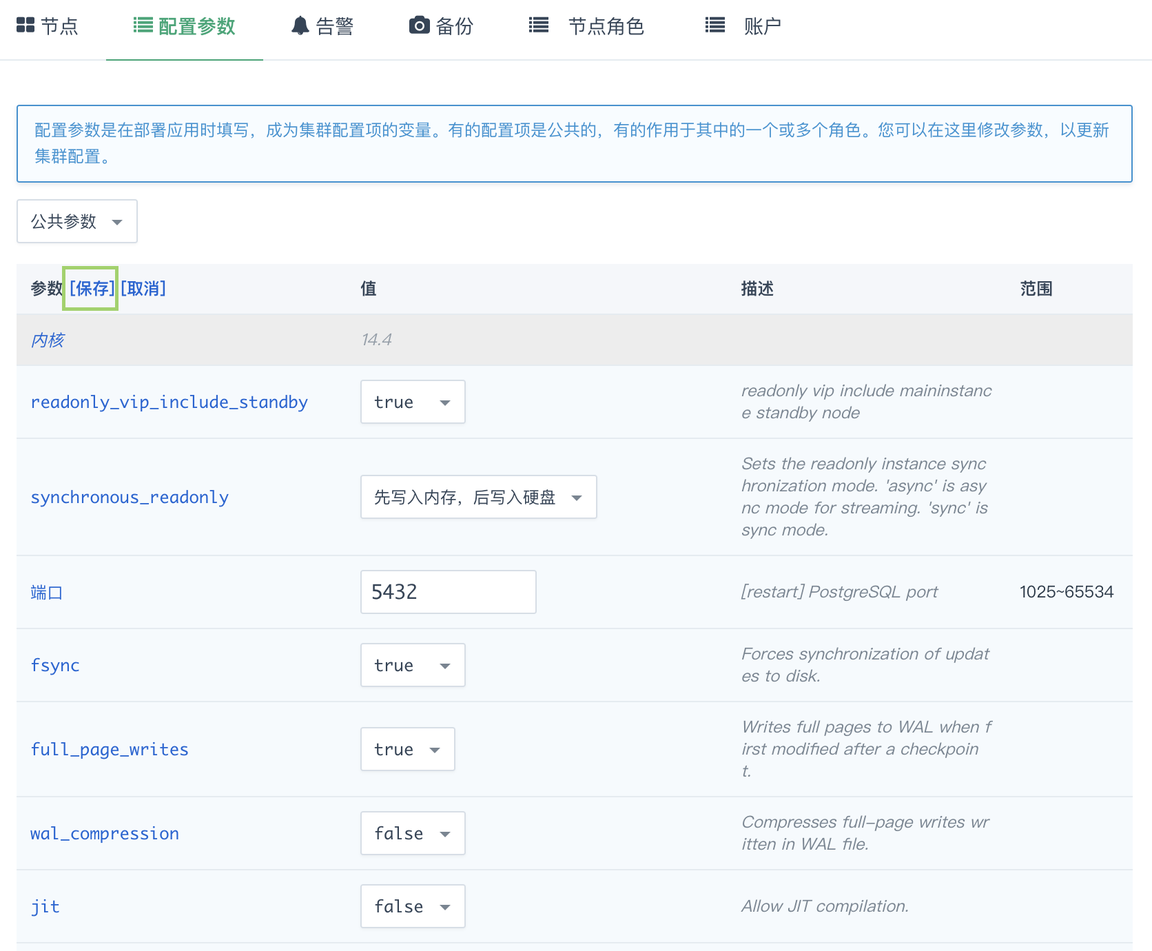
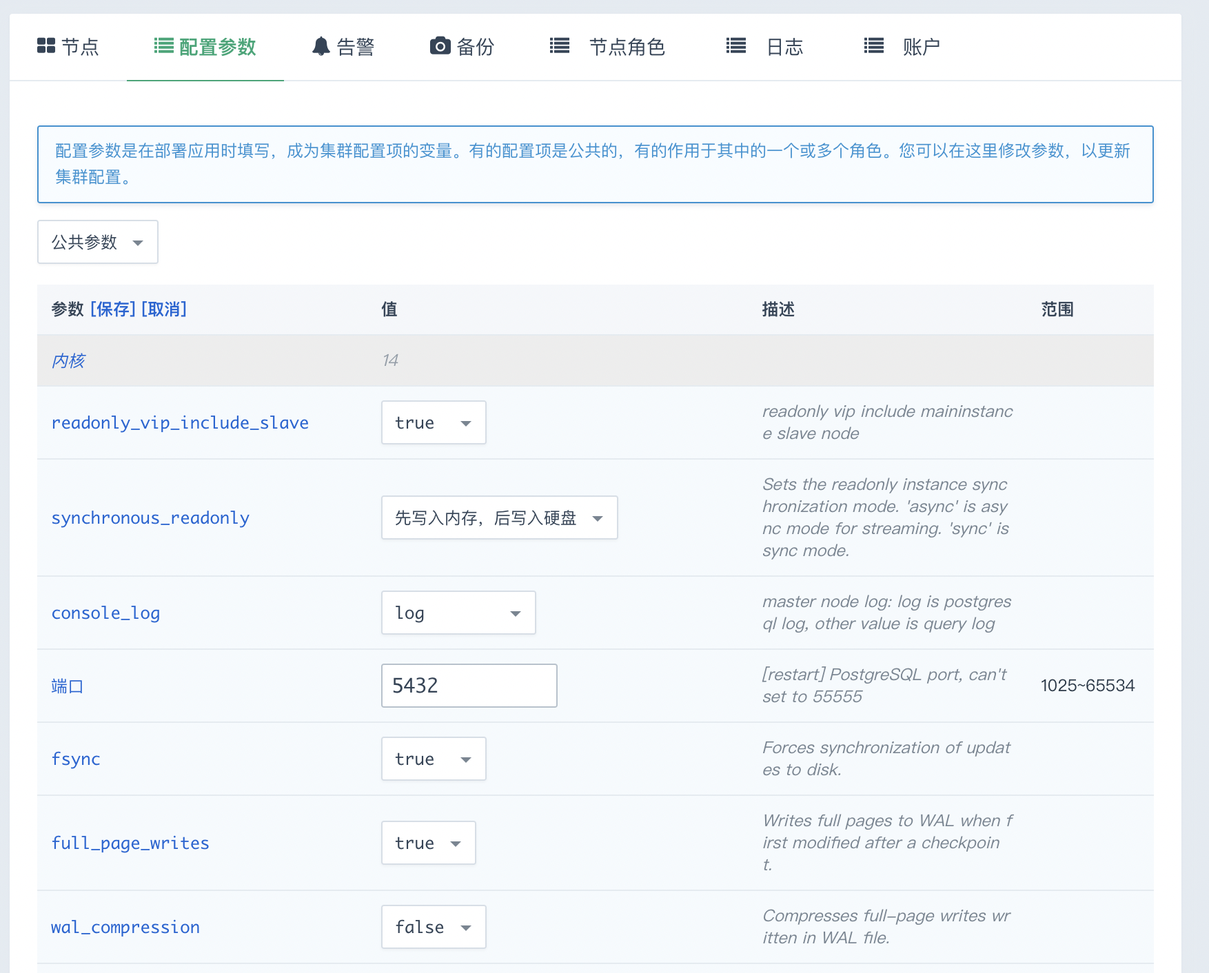
修改PG 评审意见

diff --git a/content/database/postgresql/manual_new/config_para/config_pare_info_new.md b/content/database/postgresql/manual_new/config_para/config_pare_info_new.md
@@ -20,20 +20,20 @@ draft: false
 | readonly_vip_include_slave                                | 默认为true。<ul><li>true</li><li>false</li></ul>             | 只读主实例，默认值 **true**。                                |
 | synchronous_readonly                                      | <ul><li>先写入内存，后写入硬盘</li><li>同步写入内存和硬盘</li></ul> | 表示设置只读实例同步模式。 'async' 是流式传输的异步模式。 'sync' 是同步模式。 |
 | console_log                                               | <ul><li>log</li><li>calls</li><li>mean_time</li><li>total_time</li><li>max_time</li></ul> | 主实例日志。                                                 |
-| 端口                                                      | 1025 ~ 65534                                                 | 表示PostgreSQL 端口号，默认值为 **5432**。<span style="display: block; background-color: #D8ECDE; padding: 10px 24px; margin: 10px 0; border-left: 3px solid #00a971;"><b>说明</b>: <br>该参数修改后，将重启 pgpool。</span> |
+| 端口                                                      | 1025 ~ 65534                                                 | 表示PostgreSQL 端口号，默认值为 **5432**。<span style="display: block; background-color: #D8ECDE; padding: 10px 24px; margin: 10px 0; border-left: 3px solid #00a971;"><b>说明</b>: <br>该参数修改后，将重启 postgresql 服务，请在业务低峰期进行操作。</span> |
 | fsync                                                     | <ul><li>true</li><li>false</li></ul>                         | 表示强制将更新同步到磁盘，默认值为 **true**。                |
 | full_page_writes                                          | <ul><li>true</li>                                            | 表示在检查点后第一次修改时将整页写入 WAL，默认值为 **true**。 |
 | wal_compression                                           | <ul><li>true</li><li>false</li></ul>                         | 表示压缩写入 WAL 文件的整页写入，默认值为 **false**。        |
 | jit                                                       | <ul><li>true</li><li>false</li></ul>                         | 表示允许 JIT 编译，默认值为 **false**。                      |
 | autovacuum                                                | <ul><li>true</li><li>false</li></ul>                         | 表示启动 autovacuum 子进程，默认值为 **true**。              |
 | synchronous_commit                                        | <ul><li>关闭</li><li>local</li><li>on</li><li>remote_write</li><li>remote_apply</li></ul> | 表示设置当前事务的同步级别。 'local' 表示流式传输的异步模式。 'on' 表示同步模式，默认值为 **on**。 |
-| wal_level                                                 | <ul><li>Replica</li><li>logical</li></ul>                    | 表示设置写入 WALL 的信息级别。<span style="display: block; background-color: #D8ECDE; padding: 10px 24px; margin: 10px 0; border-left: 3px solid #00a971;"><b>说明</b>: <br/>该参数修改后，将重启 pgpool。</span> |
-| temp_buffers                                              | 1 ~ 32768                                                    | 单位：MB<br>表示设置每个会话使用的最大临时缓冲区数，默认值为 **2**。<span style="display: block; background-color: #D8ECDE; padding: 10px 24px; margin: 10px 0; border-left: 3px solid #00a971;"><b>说明</b>: <br/>该参数修改后，可能将重启 pgpool。</span> |
-| work_mem                                                  | 0 ~ 1024                                                     | 单位：MB<br>表示表示在写到临时磁盘文件之前被内部排序操作和哈希表使用的内存大小，根据内存大小自动设置值，默认值为内存的 0.0005。<span style="display: block; background-color: #D8ECDE; padding: 10px 24px; margin: 10px 0; border-left: 3px solid #00a971;"><b>说明</b>: <br/>该参数修改后，可能将重启 pgpool。</span> |
-| maintenance_work_mem                                      | 0 ~ 1024                                                     | 单位：MB<br>表示表示在维护性操作（例如 VACUUM、CREATE INDEX 和 ALTER TABLE ADD FOREIGN KEY）中使用的最大的内存大小，根据内存大小自动设置值，默认为内存的 0.0625。<span style="display: block; background-color: #D8ECDE; padding: 10px 24px; margin: 10px 0; border-left: 3px solid #00a971;"><b>说明</b>: <br/>该参数修改后，可能将重启 pgpool。</span> |
-| shared_buffers                                            | 0 ~ 64                                                       | 单位：GB<br>表示设置服务器使用的共享内存缓冲区的数量，根据内存大小自动设置值，默认为内存的 0.25。 <span style="display: block; background-color: #D8ECDE; padding: 10px 24px; margin: 10px 0; border-left: 3px solid #00a971;"><b>说明</b>: <br/>该参数修改后，将重启 pgpool。</span> |
-| max_connections                                           | 0 ~ 262143                                                   | 表示设置每个 PostgreSQL 节点的最大并发连接数，max_connections = 机器剩余内存 /  (work_mem * 0.2 + temp_buffers + 2M 的栈内存)。<ul><li>假定只有1/5的连接会将work_mem全部用满</li><li>进程的堆的空间最多为10M，但是通常情况下都是小于2M</li><li>剩余内存 = 机器内存 - shared_buffers - maintenance_work_mem</li><li>当连接数max_connections不够用的时候，建议减小work_mem的设置。</li><li>当不需要很多连接的时候，手动减小max_connections 会自动增加work_mem的设置（work_mem设置为0自动优化时）</li><li>不建议手动设置其他参数。</li></ul><span style="display: block; background-color: #D8ECDE; padding: 10px 24px; margin: 10px 0; border-left: 3px solid #00a971;"><b>说明</b>: <br/>该参数修改后，将重启 pgpool。</span> |
-| max_worker_processes                                      | 0 ~ 65536                                                    | 表示最大并发工作进程数，根据CPU数量自动设置值，默认为 CPU 的数量 * 2。<span style="display: block; background-color: #D8ECDE; padding: 10px 24px; margin: 10px 0; border-left: 3px solid #00a971;"><b>说明</b>: <br/>该参数修改后，将重启 pgpool。</span> |
+| wal_level                                                 | <ul><li>Replica</li><li>logical</li></ul>                    | 表示设置写入 WALL 的信息级别。<span style="display: block; background-color: #D8ECDE; padding: 10px 24px; margin: 10px 0; border-left: 3px solid #00a971;"><b>说明</b>: <br/>该参数修改后，将重启 postgresql 服务，请在业务低峰期进行操作。</span> |
+| temp_buffers                                              | 1 ~ 32768                                                    | 单位：MB<br>表示设置每个会话使用的最大临时缓冲区数，默认值为 **2**。<span style="display: block; background-color: #D8ECDE; padding: 10px 24px; margin: 10px 0; border-left: 3px solid #00a971;"><b>说明</b>: <br/>该参数修改后，可能将重启 postgresql 服务，请在业务低峰期进行操作。</span> |
+| work_mem                                                  | 0 ~ 1024                                                     | 单位：MB<br>表示表示在写到临时磁盘文件之前被内部排序操作和哈希表使用的内存大小，根据内存大小自动设置值，默认值为内存的 0.0005。<span style="display: block; background-color: #D8ECDE; padding: 10px 24px; margin: 10px 0; border-left: 3px solid #00a971;"><b>说明</b>: <br/>该参数修改后，可能将重启 postgresql 服务，请在业务低峰期进行操作。</span> |
+| maintenance_work_mem                                      | 0 ~ 1024                                                     | 单位：MB<br>表示表示在维护性操作（例如 VACUUM、CREATE INDEX 和 ALTER TABLE ADD FOREIGN KEY）中使用的最大的内存大小，根据内存大小自动设置值，默认为内存的 0.0625。<span style="display: block; background-color: #D8ECDE; padding: 10px 24px; margin: 10px 0; border-left: 3px solid #00a971;"><b>说明</b>: <br/>该参数修改后，可能将重启 postgresql 服务，请在业务低峰期进行操作。</span> |
+| shared_buffers                                            | 0 ~ 64                                                       | 单位：GB<br>表示设置服务器使用的共享内存缓冲区的数量，根据内存大小自动设置值，默认为内存的 0.25。 <span style="display: block; background-color: #D8ECDE; padding: 10px 24px; margin: 10px 0; border-left: 3px solid #00a971;"><b>说明</b>: <br/>该参数修改后，将重启 postgresql 服务，请在业务低峰期进行操作。</span> |
+| max_connections                                           | 0 ~ 262143                                                   | 表示设置每个 PostgreSQL 节点的最大并发连接数，max_connections = 机器剩余内存 /  (work_mem * 0.2 + temp_buffers + 2M 的栈内存)。<ul><li>假定只有1/5的连接会将work_mem全部用满</li><li>进程的堆的空间最多为10M，但是通常情况下都是小于2M</li><li>剩余内存 = 机器内存 - shared_buffers - maintenance_work_mem</li><li>当连接数max_connections不够用的时候，建议减小work_mem的设置。</li><li>当不需要很多连接的时候，手动减小max_connections 会自动增加work_mem的设置（work_mem设置为0自动优化时）</li><li>不建议手动设置其他参数。</li></ul><span style="display: block; background-color: #D8ECDE; padding: 10px 24px; margin: 10px 0; border-left: 3px solid #00a971;"><b>说明</b>: <ul><li>该参数修改后，将重启 postgresql 服务，请在业务低峰期进行操作。</li><li>由于参数自动调优，可能间接造成 max_connections 参数修改，进而引起postgresql 服务重启。</li><li>参数的下方<code>restart</code> 代表修改参数会重启；<code>restart-mayby</code>代码修改参数可能会重启；<code> unit </code>代表参数的单位；<code> 0 is automatic set </code>代表该参数会根据当前的主机配置进行自动设置</li></ul></span> |
+| max_worker_processes                                      | 0 ~ 65536                                                    | 表示最大并发工作进程数，根据CPU数量自动设置值，默认为 CPU 的数量 * 2。<span style="display: block; background-color: #D8ECDE; padding: 10px 24px; margin: 10px 0; border-left: 3px solid #00a971;"><b>说明</b>: <br/>该参数修改后，将重启 postgresql 服务，请在业务低峰期进行操作。</span> |
 | wal_writer_delay                                          | 1 ~ 10000                                                    | 单位：ms<br> 表示表示WAL 写入器的活动轮次之间的延迟，默认值为 **10**。 |
 | wal_writer_flush_after                                    | 1 ~ 1024                                                     | 单位：MB<br>表示WAL writer 写出的触发刷新的 WAL 数量，默认值为 **1**。 |
 | commit_delay                                              | 0 ~ 100000                                                   | 单位：μs<br>表示设置事务提交和将 WAL 刷新到磁盘之间的延迟（，默认值为 **0**。 |

diff --git a/content/database/postgresql/manual_new/mgt_connect/access_pg.md b/content/database/postgresql/manual_new/mgt_connect/access_pg.md
@@ -1,17 +1,15 @@
 ---
 title: "连接数据库"
 description: 本小节主要介绍如何快速连接 PostgreSQL 数据库。 
-keyword: 访问,访问数据库,PostgreSQL,关系型数据库,数据库
-weight: 05
+keyword: 访问集群,访问数据库,PostgreSQL,关系型数据库,数据库
+weight: 15
 collapsible: false
 draft: false
 ---
 
-
-
 PostgreSQL 可通过 psql 命令行客户端直接连接，还可以使用图形化的数据库客户端连接。图形化客户端包括 pgAdmin 、DbVisualizer 、DBeaver 等。
 
-本小节主要介绍如何连接 PostgreSQL 数据库，以终端命令行方式连接数据库。
+本小节主要介绍 PostgreSQL V2.0.0 版本如何连接 PostgreSQL 数据库，以终端命令行方式连接数据库。
 
 ## 前提条件
 
@@ -19,43 +17,42 @@ PostgreSQL 可通过 psql 命令行客户端直接连接，还可以使用图形
 - 已创建 PostgreSQL 集群，且集群状态为**活跃**。
 - 已在服务器安装数据库客户端，且服务器与数据库之间网络畅通。可通过[边界路由器](/network/border_router/)或 [VPN](/network/vpc/manual/vpn/) 等方式打通网络。
 
-## 获取连接信息
+## 操作步骤
 
-1. 在集群管理页面，点击目标集群 ID，进入集群详情页面。
+1. 获取连接信息。
 
-2. 在**服务端口信息**模块或节点列表，获取高可用 IP 地址或节点 IP 地址。
+   * 在集群管理页面，点击目标集群 ID，进入集群详情页面。
+   * 在服务端口信息模块或节点列表，获取高可用 IP 地址或节点 IP 地址。
 
-   > **注意**
-   >
-   > 单节点集群仅一个节点，**连接信息**中不呈现高可用 IP。单节点集群的节点 IP 可在**节点列表**获取。
+   <img src="../../../_images/info_port.png" style="zoom:100%;" />
 
-   ![获取高可用 IP 地址](../../_images/check_access_info1.png)
+2. 创建用户，详细操作请参见[添加账号](/database/postgresql/manual_new/mgt_account/create_account/)。
 
-## 访问数据库
+3. 访问数据库。
 
-连接方式如下：
+   | 选项 | 说明                                                         | 示例          |
+   | ---- | ------------------------------------------------------------ | ------------- |
+   | -U   | 数据库用户账号名。- 获取更多用户信息，请参见[用户管理](/database/postgresql/manual_new/mgt_account/user_account/)。 | root          |
+   | -h   | 数据库节点的 IP 或者双节点集群的 VIP。                       | 192.168.100.0 |
+   | -d   | 数据库名称。                                                 | postgres      |
+   | 密码 | 数据库用户密码。                                             | qingcloud1234 |
 
-```bash
-psql -U <userName> -h <port> -d <serverName> 
-```
+### 连接数据库示例
 
-|<span style="display:inline-block;width:80px">选项</span> |<span style="display:inline-block;width:240px">说明</span>|<span style="display:inline-block;width:280px">示例</span> |
-|:----|:----|:----|
-|-U           |数据库用户账号名。<br>- 新建数据库默认账号名 `pguser`。<br>- 获取更多用户信息，请参见[用户管理](../../mgt_account/user_account)。      | pguser |
-|-h          |数据库节点的 IP 或者双节点集群的 VIP。                 |192.168.100.0|
-|-d          |数据库名称。 <br>新建数据库默认名称 `qingcloud`。            | qingcloud |
-|密码          |数据库用户密码。<br>新建数据库默认账号密码`qingcloud1234`              | qingcloud1234 |
+1. 使用创建的用户，输入如下命令，并输入密码，访问目标数据库。
 
-连接示例:
-
-1. 输入如下命令，并输入密码，访问目标数据库。
-   
-   ```bash
-    psql -U qingcloud -h 192.168.100.246 -d qingcloud
+   ```
+   psql -U root -h 172.16.0.239 -d postgres
    ```
 
-2. 执行命令`\l`，查看当前 PostgreSQL 数据库信息。
+2. 创建业务数据库（需要连接的用户权限为`高级权限`）
+
+   ```
+   create database production;
+   ```
+
+3. 执行命令 `\l`，查看当前 PostgreSQL 数据库信息。
 
    回显如下：
 
-   ![访问 PG 数据库](../../../_images/pglogin.png)  
+   <img src="../../../_images/access_pg_new01.png" style="zoom:100%;" />

diff --git a/content/database/postgresql/manual_new/mgt_account/create_account.md b/content/database/postgresql/manual_new/mgt_account/create_account.md
@@ -7,17 +7,14 @@ collapsible: false
 draft: false
 ---
 
-
-
-创建 PostgreSQL 集群时，可选择创建名为 `pguser` 普通用户账号。集群创建成功后，您可根据业务需要，添加**高级权限**和**普通权限**账号。
+创建 PostgreSQL 集群时，默认不会创建账号。集群创建成功后，您需要手动添加高级权限和普通权限账号。
 
 本小节主要介绍如何创建 PostgreSQL 数据库账号。
 
 ## 约束限制
 
-- 仅支持创建一个**高级权限**账号。
 - 不支持创建同名账号。
-- 不支持创建 `postgis`、`postgres`、`replica`、`zbx_monitor` 、`root` 等账号。
+- 不支持创建 `postgres`、`pgautofailover_replicator`、`pgautofailover_monitor` 等账号。
 
 ## 前提条件
 
@@ -32,7 +29,7 @@ draft: false
 4. 点击**账号**页签，进入数据库账号列表页面。
 5. 点击**添加账号**，弹出添加账号窗口。
    
-   <img src="../../../_images/set_user_info.png" alt="配置账号信息" style="zoom:50%;" />
+   <img src="../../_images/set_user_info1.png" alt="配置账号信息" style="zoom:50%;" />
 
 6. 配置账号信息，详细参数说明请参见[账号参数](#账号参数)。
 
@@ -42,10 +39,9 @@ draft: false
 
 ### 账号参数
 
-|  <span style="display:inline-block;width:120px">参数</span> | <span style="display:inline-block;width:480px">说明</span>  |
-|:--- |:--- |
-| 角色| 默认为主实例。 |
-| 数据库密码 |  输入数据库密码。<li>密码规则：长度为 8～32 位字符数；必须同时包含大写字母（A～Z)、小写字母（a～z）、数字（0～9）和特殊字符（@#%^&*_+-=）。 |
-| 确认数据库密码 |  输入与**数据库密码**相同密码。 |
-| 数据库用户名 |  输入数据库用户账户名。<li>不支持添加`postgis`、`postgres`、`replica`、`zbx_monitor` 、`root`账号。<li>为确保账号名唯一性，不支持添加同名账号。<li>命名规则：长度为 2～26 个字符数；只能由大写字母（A～Z)、小写字母（a～z）、数字（0～9）和特殊字符（_）组成。 |
-| 用户权限 |  选择账号权限类型。<li>可选择`普通权限`或`高级权限`。|
+| <span style="display:inline-block;width:120px">参数</span> | <span style="display:inline-block;width:480px">说明</span>   |
+| :--------------------------------------------------------- | :----------------------------------------------------------- |
+| 角色                                                       | 默认为管理节点。                                             |
+| 账号                                                       | 输入数据库用户账户名。不支持添加 `postgres`、`pgautofailover_replicator`、`pgautofailover_monitor` 等账号。<br>为确保账号名唯一性，不支持添加同名账号。<br>命名规则：长度为 2～26 个字符数；只能由大写字母（A～Z)、小写字母（a～z）、数字（0～9）和特殊字符（_）组成。 |
+| 数据库密码                                                 | 输入数据库密码。密码规则：长度为 8～32 位字符数；必须同时包含大写字母（A～Z)、小写字母（a～z）、数字（0～9）和特殊字符（@#%^&*_+-=）。 |
+| 用户权限                                                   | 选择账号权限类型。<br>可选择`普通权限`或`高级权限`。         |

diff --git a/content/database/postgresql/manual_new/metrics_alarm/config_display_metrics.md b/content/database/postgresql/manual_new/metrics_alarm/config_display_metrics.md
@@ -19,13 +19,89 @@ PostgreSQL 提供集群服务和资源性能监控指标和告警信息。
 
 ## 支持的服务监控指标
 
-|  <span style="display:inline-block;width:200px">监控项</span> | <span style="display:inline-block;width:80px">监控周期</span> | <span style="display:inline-block;width:60px">单位</span> |  <span style="display:inline-block;width:320px">指标含义</span>  |
-|:--- |:--- |:--- |:--- |
-| 从节点复制落后主节点秒数 | 5分钟 | s | 统计从节点复制落后主节点秒数。<br>以秒为单位。<br>  -1表示节点异常。 |
-| 连接数 | 5分钟 | counts | 统计当前连接到 PostgreSQL 的总连接数。<br>以个为单位。 |
-| 事务总数 | 5分钟 | counts | 统计当前 PostgreSQL 的事务总数。<br>以次为单位。 |
-| 等待事务数 | 5分钟 | counts| 统计当前 PostgreSQL 的等待事务总数。<br>以次为单位。 |
-| 死锁数 | 5分钟 | counts | 统计当 PostgreSQL 的死锁总数。<br>以个为单位。 |
+<table>
+  <tr>
+  	<th>监控项</th>
+  	<th>子监控项</th>
+  	<th>监控周期</th>
+  	<th>单位</th>
+  	<th>指标含义</th>
+  </tr>
+  <tr>
+    <td rowspan="2">连接信息</td>
+    <td>连接数</td>
+    <td>5 分钟</td>
+    <td>counts</td>
+    <td>统计当前连接到 PostgreSQL 的总连接数以个为单位。</td>
+  </tr>
+   <tr>
+    <td>未使用连接数</td>
+    <td>5 分钟</td>
+    <td>counts</td>
+    <td>统计当前还能连接到 PostgreSQL 的总连接数以个为单位。</td>
+  </tr>
+    <tr>
+    <td rowspan="2">事务信息</td>
+    <td>事务提交数</td>
+    <td>5 分钟</td>
+    <td>counts</td>
+    <td>统计当前 PostgreSQL 的事务总数，以次为单位。</td>
+  </tr>
+  <tr>
+    <td>事务回滚数</td>
+    <td>5 分钟</td>
+    <td>counts</td>
+    <td>统计当前 PostgreSQL 的回滚事务总数，以次为单位。</td>
+  </tr>
+  <tr>
+    <td rowspan="3">元组信息</td>
+    <td>插入元组数</td>
+    <td>5 分钟</td>
+    <td>counts</td>
+    <td>统计当前 PostgreSQL 的插入元组的数量，以个为单位。</td>
+  </tr>
+  <tr>
+    <td>更新元组数</td>
+    <td>5 分钟</td>
+    <td>counts</td>
+    <td>统计当前 PostgreSQL 的更新元组的数量，以个为单位。</td>
+  </tr>
+  <tr>
+    <td>删除元组数</td>
+    <td>5 分钟</td>
+    <td>counts</td>
+    <td>统计当前 PostgreSQL 的删除元组的数量，以个为单位。</td>
+  </tr>
+  <tr>
+    <td>最大事务持续时间</td>
+    <td>最大事务持续时间</td>
+    <td>5 分钟</td>
+    <td>s</td>
+    <td>统计当前 PostgreSQL 最大事务的持续时间，以秒为单位。</td>
+  </tr>
+  <tr>
+    <td rowspan="2">数据块信息</td>
+    <td>读取缓存块数</td>
+    <td>5 分钟</td>
+    <td>counts</td>
+    <td>统计在数据库内存中读取的数据块数，每个块 8KB。</td>
+  </tr>
+  <tr>
+    <td>读取磁盘块数</td>
+    <td>5 分钟</td>
+    <td>counts</td>
+    <td>统计在磁盘中读取的数据块数，每个块 8KB。</td>
+  </tr>
+  <tr>
+    <td>缓存命中率</td>
+    <td>缓存命中率</td>
+    <td>5 分钟</td>
+		<td>counts</td>
+    <td>统计所有块的数量，命中率 = 缓存块数 /（缓存块数 + 磁盘块数）</td>
+  </tr>
+</table>
+
+
 
 ## 支持的资源监控指标
 

diff --git a/content/database/postgresql/manual_new/metrics_alarm/set_alarm_rules.md b/content/database/postgresql/manual_new/metrics_alarm/set_alarm_rules.md
@@ -83,15 +83,16 @@ PostgreSQL 支持对每个缓存节点配置指标告警策略。当业务发生
 
 ### 告警项说明
 
-|  <span style="display:inline-block;width:200px">告警项</span> | <span style="display:inline-block;width:80px">推荐值</span> |  <span style="display:inline-block;width:320px">告警说明</span>  |
-|:--- |:--- |:--- |
-| CPU利用率 |  80% | 检测 CPU 使用率。若 CPU 过高会导致性能下降、崩溃等。 |
-| 内存使用率 |  80% | 检测内存使用率。若持续增高会导致数据库不可用。 |
-| 磁盘使用量 |  80% | 检测硬盘使用率。若磁盘满会导致数据无法落盘。 |
-| 节点服务状态 |  1 | 检测服务是否可用。  |
-| 从节点复制落后主节点秒数 | 10s | 检测从节点复制落后主节点秒数。 |
-| 连接数 | 100 | 检测当前连接到 PostgreSQL 的总连接数。 |
-| 死锁数 | 5 | 检测当 PostgreSQL 的死锁总数。 |
+| <span style="display:inline-block;width:200px">告警项</span> | <span style="display:inline-block;width:80px">推荐值</span> | <span style="display:inline-block;width:320px">告警说明</span> |
+| :----------------------------------------------------------- | :---------------------------------------------------------- | :----------------------------------------------------------- |
+| CPU利用率                                                    | 80%                                                         | 检测 CPU 使用率。若 CPU 过高会导致性能下降、崩溃等。         |
+| 内存使用率                                                   | 80%                                                         | 检测内存使用率。若持续增高会导致数据库不可用。               |
+| 磁盘使用量                                                   | 80%                                                         | 检测硬盘使用率。若磁盘满会导致数据无法落盘。                 |
+| 节点服务状态                                                 | 1                                                           | 检测服务是否可用。                                           |
+| 连接数                                                       | 根据实际规格调整                                            | 检测当前连接到 PostgreSQL 的总连接数。                       |
+| 缓存命中率                                                   | <50                                                         | 检测缓存命中率。                                             |
+| 未使用连接数                                                 | <100                                                        | 检测当前 PostgreSQL 剩余可用连接数。                         |
+| 最大事务持续时间                                             | >1800                                                       | 检测长事务。                                                 |
 
 ## 设置统一通知策略
 

diff --git a/content/database/postgresql/manual_new/mgt_account/user_account.md b/content/database/postgresql/manual_new/mgt_account/user_account.md
@@ -11,19 +11,16 @@ draft: false
 
 关系型数据库 PostgreSQL 支持管理 **高级权限**和**普通权限** 两种权限类型用户账号。
 
-|<span style="display:inline-block;width:80px">账号类型</span> |<span style="display:inline-block;width:240px">权限范围</span>|<span style="display:inline-block;width:280px">说明</span> |
-|:----|:----|:----|
-|高级权限   |具备 `CREATEDB`、`CREATEROLE`、`REPLICATION` 权限，以及其创建数据库的管理权限。 |<li>一个集群仅支持创建一个高级权限账号。|
-|普通权限   | 具备其创建表、索引、Schema 等数据库对象的管理权限。|<li>一个集群支持创建多个普通账号。<li>普通账号不能创建和管理其他账号。|
+| <span style="display:inline-block;width:80px">账号类型</span> | <span style="display:inline-block;width:240px">权限范围</span> | <span style="display:inline-block;width:280px">说明</span>   |
+| :----------------------------------------------------------- | :----------------------------------------------------------- | :----------------------------------------------------------- |
+| 高级权限                                                     | 具备 `Superuser`、`CREATEDB`、`CREATEROLE` 权限，以及`REPLICATION`等创建数据库的管理权限。 | 一个集群支持创建多个高级权限账号。                           |
+| 普通权限                                                     | 具备其创建表、索引、Schema 等数据库对象的管理权限。          | <li>一个集群支持创建多个普通账号。<li>普通账号不能创建和管理其他账号。 |
 
 ## 默认账号
 
-创建 PostgreSQL 集群时，系统默认同步创建 `postgis`、`postgres`、`replica`、`zbx_monitor` 等运维管理账号。
+创建 PostgreSQL 集群时，系统默认同步创建 `postgres`、`pgautofailover_replicator`、`pgautofailover_monitor`等运维管理账号。
 
-PostgreSQL 在初始化过程中，根据服务器参数中用户输入的数据库名称，数据库用户和密码创建数据库账户。为了方便维护，将自动创建数据库超级用户(superuser)账号 `root`，密码与用户在服务器参数中设置的数据库密码相同。
+默认集群没有业务账户及数据库，需要在 console 创建高级权限账户，并通过该账户进行管理。
 
-> **注意**
-> 
-> -默认账号仅用用于运维服务管理，不支持手动创建和修改。
-> 
-> -系统保留默认账号进行自动化运维和数据同步，请勿删除，以免破坏系统的运行。
+
+

diff --git a/content/database/postgresql/manual_new/node_lifecycle/create_node.md b/content/database/postgresql/manual_new/node_lifecycle/create_node.md
@@ -41,7 +41,7 @@ draft: false
 | :--------------------------------------------------------- | :----------------------------------------------------------- |
 | 节点类型                                                   | 选择节点类型。可选择`主实例`、`只读实例`。                   |
 | 规格                                                       | 选择节点云服务器 CPU 和内存规格。                            |
-| 磁盘大小                                                   | 配置集群数据和日志存储磁盘大小。磁盘大小决定了数据库最大容量以及 IOPS 能力，请根据业务量，可滑动设置或输入数字配置集群磁盘大小。<li>最小可配置为 100GB。 |
-| 节点数量                                                   | 选择节点数量。 <li>`只读实例`默认为0，最多可选择5个。  <li>`Proxy 实例`默认为0，最多可选择2个。 |
+| 磁盘大小                                                   | 配置集群数据和日志存储磁盘大小。磁盘大小决定了数据库最大容量以及 IOPS 能力，请根据业务量，可滑动设置或输入数字配置集群磁盘大小。<br>最小可配置为 100GB。 |
+| 节点数量                                                   | 选择节点数量。 <br>`只读实例`默认为0，最多可选择5个。        |
 | 节点名称                                                   | 输入节点名称。                                               |
-| 节点 IP                                                    | 配置节点 IP 地址。<li>默认为`自动分配`。<li> 选择`手动配置`需为各节点配置 IP。 |
+| 节点 IP                                                    | 配置节点 IP 地址。<ul><li>默认为`自动分配`。</li><li> 选择`手动配置`需为各节点配置 IP。</li></ul> |

diff --git a/content/database/postgresql/manual_new/cluster_lifecycle/cluster_info.md b/content/database/postgresql/manual_new/cluster_lifecycle/cluster_info.md
@@ -15,4 +15,4 @@ PostgreSQL 集群目前支持`基础版`、`高可用版`两个系列。
 | <span style="display:inline-block;width:60px">系列</span> | <span style="display:inline-block;width:220px">版本说明</span> | <span style="display:inline-block;width:340px">适应场景</span> |
 | :-------------------------------------------------------- | :----------------------------------------------------------- | :----------------------------------------------------------- |
 | 基础版                                                    | 单节点                                                       | 适用于个人学习、小型网站、开发测试等场景。                   |
-| 高可用版                                                  | 默认2个节点。<li>可添加 `主实例`和`只读实例`节点。<li>一主一从高可用架构，主从节点支持同步流复制或者异步流复制模式。 | 采用一主一从的经典高可用架构，提供数据库高可用保障服务。适用于企业生产环境，电商、游戏、金融、政企等核心数据库场景。 |
+| 高可用版                                                  | 默认2个节点。<ul><li>可添加 `主实例`和`只读实例`节点。</li><li>一主多从的主实例架构，主从节点支持同步流复制或者异步流复制模式。</li></ul> | 采用一主多从的主实例架构，提供数据库高可用保障服务。适用于企业生产环境，电商、游戏、金融、政企等核心数据库场景。<ul><li>当使用2个主实例时，采用半同步模式，即当备机出现问题时，不会影响主机的业务，同时健康检查会报告集群出现错误。</li><li>当采用3个主实例时，只允许1个备机出现错误，当两个备机都出现故障时，将影响主节点的写入，因此拥有更高的安全性。</li></ul> |

diff --git a/content/database/postgresql/manual_new/mgt_account/delete_account.md b/content/database/postgresql/manual_new/mgt_account/delete_account.md
@@ -13,15 +13,13 @@ draft: false
 
 > **注意**
 > 
-> -数据库账号删除后不可找回，请谨慎操作。
-> 
-> -请勿以任何方式删除 `postgis`、`postgres`、`replica`、`zbx_monitor`、`root` 等管理账号，以免数据库系统异常。
-> 
-> -若删除账号提示 `删除用户失败，仍然有对象依赖此用户，请取消相关权限后再次尝试！`，表明该账号仍具有相应数据库、表或者对象的权限。请取消账号所有权限后，再尝试删除数据库。
+> * 数据库账号删除后不可找回，请谨慎操作。
+> * 请勿以任何方式删除 `postgres`、`pgautofailover_replicator`、`pgautofailover_monitor` 等管理账号，以免数据库系统异常。
+> * 若删除账号提示 `删除用户失败，仍然有对象依赖此用户，请取消相关权限后再次尝试！`，表明该账号仍具有相应数据库、表或者对象的权限。请取消账号所有权限后，再尝试删除数据库。
 
 ## 约束限制
 
-- 不支持删除 `postgis`、`postgres`、`replica`、`zbx_monitor` 、`root` 等账号。
+不支持删除 `postgres`、`pgautofailover_replicator`、`pgautofailover_monitor` 等管理账号。
 
 ## 前提条件
 
@@ -35,7 +33,7 @@ draft: false
 3. 选择目标集群，点击目标集群 ID，进入集群详情页面。
 4. 选择**账号**页签，点击**删除账号**，弹出删除账号窗口。
    
-   <img src="../../../_images/del_user.png" alt="删除账号" style="zoom:50%;" />
+   <img src="../../_images/del_user1.png" alt="删除账号" style="zoom:50%;" />
 
 5. 输入待删除数据库用户名。
 6. 确认配置信息无误后，点击**提交**，返回账号列表页面，刷新用户账号列表，确认成功删除账号。
